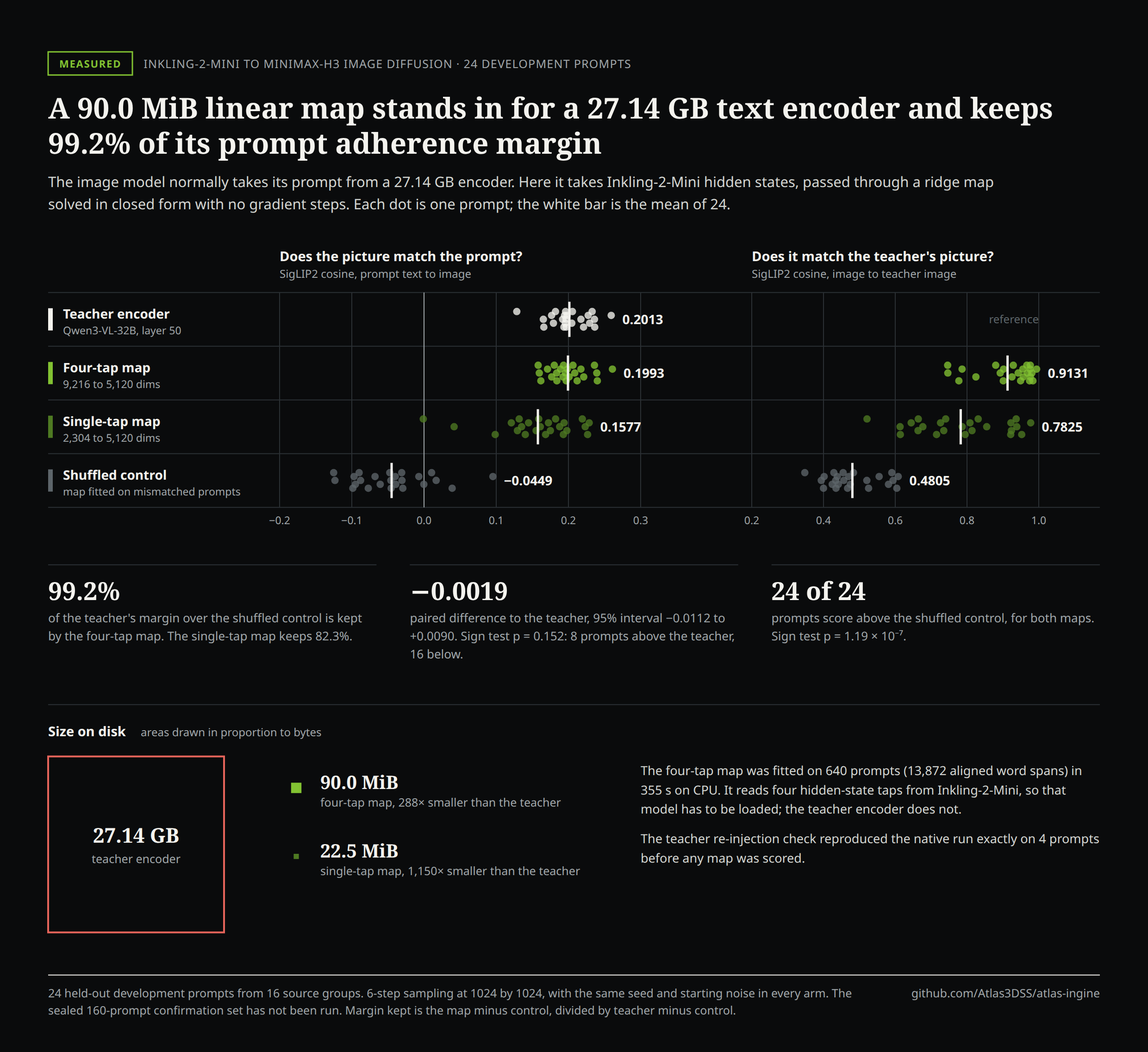
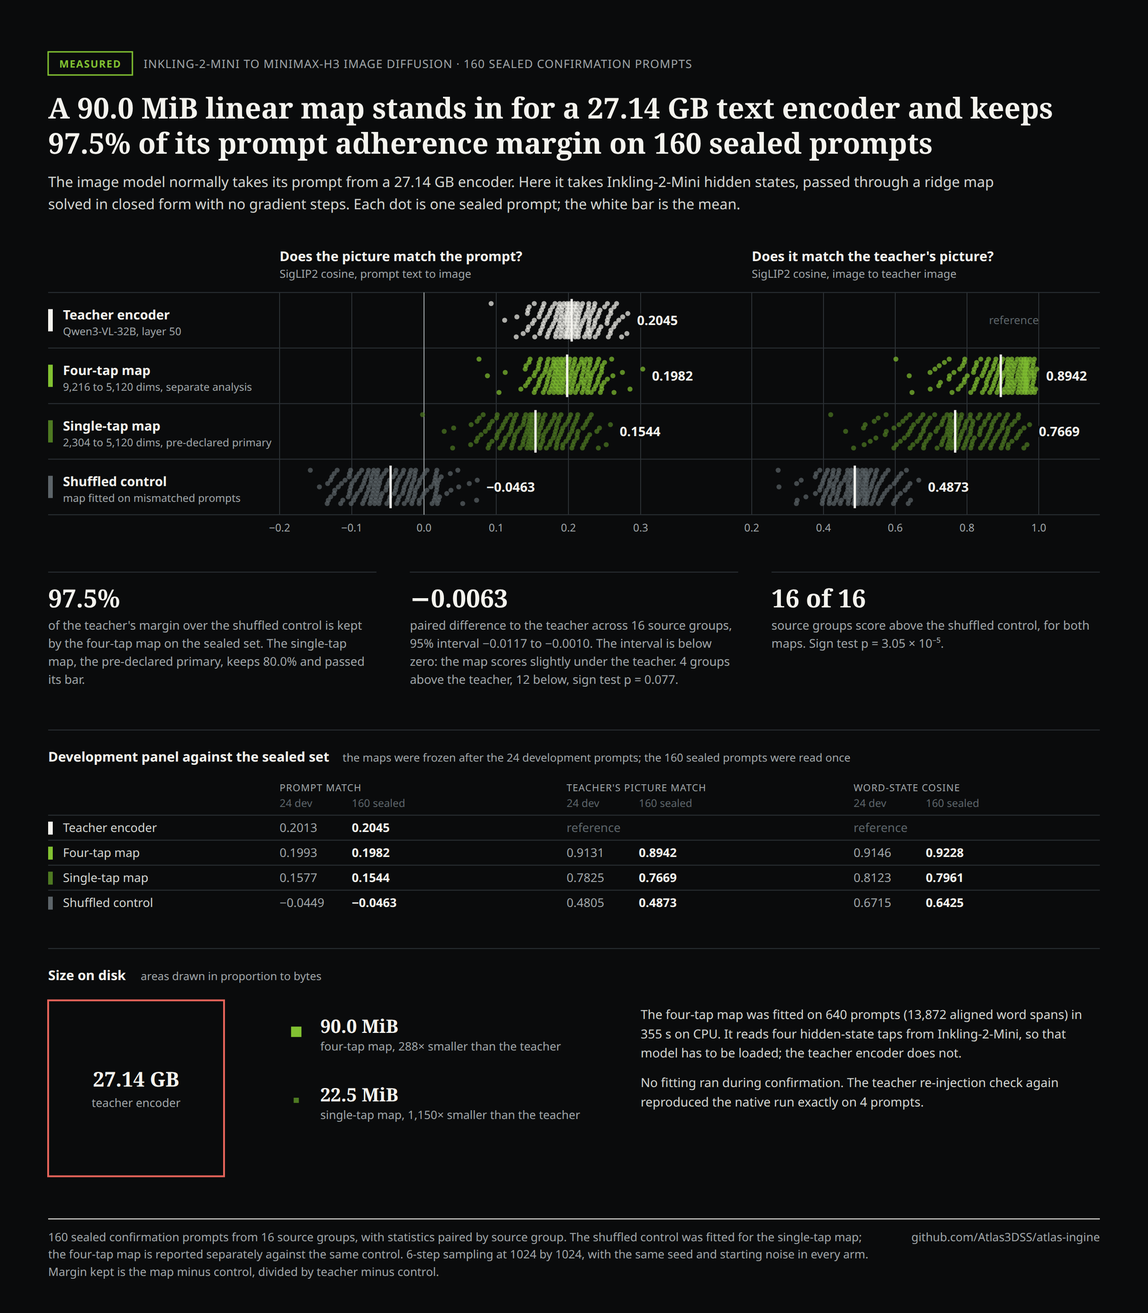
docs(912): v0.2.1 sealed Confirm-160 Fig 1 + exact -0.0063 [-0.0117,-0.0010] CI & 0.1982 precision fixes

diff --git a/modules/zero_gradient_omni_modal_grafting/figures/build_figures.py b/modules/zero_gradient_omni_modal_grafting/figures/build_figures.py
@@ -16,6 +16,7 @@ RUNS = '/mnt/storage/omni_gate2_runs'
 ap = argparse.ArgumentParser()
 ap.add_argument('--packet-a', default=f'{RUNS}/h3_platos_key_phase0_24p_a8146fa7/h3_platos_key_phase0_report.json')
 ap.add_argument('--packet-b', default=f'{RUNS}/vision_ridge_norm_dev_val192/vision_ridge_norm_dev_report.json')
+ap.add_argument('--confirm', default=f'{RUNS}/packetA_confirm160_full/h3_confirm160_report.json')
 ap.add_argument('--strip', default=f'{RUNS}/phase0_912_spinup/packetB2_ocr_towers_strip_verify_report.json')
 ap.add_argument('--image-nvfp4', default=os.path.expanduser('~/dev_genius/models/minimax_h3_image_pruned_nvfp4.safetensors'))
 ap.add_argument('--paper', default=os.path.join(HERE, '..', 'PAPER.md'))
@@ -90,13 +91,14 @@ def sci(v):
 
 
 A = json.load(open(ARGS.packet_a)); B = json.load(open(ARGS.packet_b)); ST = json.load(open(ARGS.strip)); PAPER = open(ARGS.paper).read()
-SOURCES = {os.path.basename(p): sha(p) for p in (ARGS.packet_a, ARGS.packet_b, ARGS.strip)}; SOURCES['PAPER.md (size targets, figure 3)'] = sha(ARGS.paper)
+CF = json.load(open(ARGS.confirm)); CFJ = os.path.join(os.path.dirname(ARGS.confirm), 'h3_confirm160_per_prompt_outcomes.jsonl')
+SOURCES = {os.path.basename(p): sha(p) for p in (ARGS.packet_a, ARGS.packet_b, ARGS.strip, ARGS.confirm, CFJ)}; SOURCES['PAPER.md (size targets, figure 3)'] = sha(ARGS.paper)
 assert A['qualifier']['qualified_complete'] and B['qualifier']['qualified_complete'] and ST['all_verified']
 
 # ------------------------------------------------------------------ figure 1: Packet A adherence and size
 FE = A['functional_evidence']; SUM = FE['arm_summaries']; PP = FE['per_prompt_outcomes']; MF = A['measured_memory_footprint']
-ARMS = [('teacher_reinject', 'Teacher encoder', 'Qwen3-VL-32B, layer 50', INK), ('inkling_platos_key_concat4', 'Four-tap map', '9,216 to 5,120 dims', G),
-        ('inkling_platos_key_single_tap', 'Single-tap map', '2,304 to 5,120 dims', G2), ('b0_shuffled_single_tap', 'Shuffled control', 'map fitted on mismatched prompts', DIM)]
+ARMS = [('teacher_reinject', 'Teacher encoder', 'Qwen3-VL-32B, layer 50', INK), ('inkling_platos_key_concat4', 'Four-tap map', '9,216 to 5,120 dims, separate analysis', G),
+        ('inkling_platos_key_single_tap', 'Single-tap map', '2,304 to 5,120 dims, pre-declared primary', G2), ('b0_shuffled_single_tap', 'Shuffled control', 'map fitted on mismatched prompts', DIM)]
 NP = len(PP); assert NP == 24 == A['split_audit']['functional_dit_eval_prompts_used'] and FE['source_group_audit']['n_source_groups'] == 16
 for k, *_ in ARMS:  # per-prompt rows must reproduce the arm means
     assert abs(sum(p['arms'][k]['siglip2_text_image_cos'] for p in PP) / NP - SUM[k]['siglip2_text_image_cos_mean']) < 1e-9
@@ -110,9 +112,30 @@ assert TB == A['pinned_weights_verified']['teacher_qwen3vl_32b_layer50']['bytes'
 FIT = A['fitted_keys']['concat4']['fit_audit']; FITS = A['split_audit']['fit_prompts_used']; FITT = A['staged_handoffs']['stageB_elapsed_seconds']
 
 
+# sealed confirmation: 160 prompts read once, with the maps frozen from the development run
+CP = [json.loads(line) for line in open(CFJ)]; NS = len(CP); GROUPS = sorted({p['source_group_id'] for p in CP}); NG = len(GROUPS)
+PR = CF['primary_single_tap_matched_b0_analysis_g16']; CC = CF['separate_concat4_analysis_g16']; WS = CF['word_span_metrics']
+assert CF['qualified_complete'] and CF['status'] == 'COMPLETED' and sha(CFJ) == CF['per_prompt_outcomes_sha256'] and CF['fit_calls_executed'] == 0
+assert NS == CF['unique_confirm_prompt_ids'] == CF['confirm_reserve_rows_read'] == 160 and NG == 16 and CF['dev_floor_audit']['passed'] and PR['confirmation_bar_passed']
+assert all(CF['frozen_keys_audit'][k]['sha256'] == A['fitted_keys'][k2]['saved']['sha256'] for k, k2 in (('concat4', 'concat4'), ('single_tap', 'single_tap'), ('b0_shuffled', 'b0_shuffled_single_tap')))
+
+
+def gmean(arm, key):  # mean over source groups of the group mean, the unit the report's statistics use
+    return sum(sum(p['arms'][arm][key] for p in CP if p['source_group_id'] == g) / sum(p['source_group_id'] == g for p in CP) for g in GROUPS) / NG
+
+
+for key in ('siglip2_text_image', 'siglip2_image_teacher'):  # per-prompt rows must reproduce the report's arm means
+    assert abs(gmean('inkling_platos_key_single_tap', key) - PR['vs_matched_b0'][key]['mean_a']) < 1e-9 and abs(gmean('b0_shuffled_single_tap', key) - PR['vs_matched_b0'][key]['mean_b']) < 1e-9
+    assert abs(gmean('inkling_platos_key_concat4', key) - CC['vs_teacher_reinject'][key]['mean_a']) < 1e-9 and abs(gmean('teacher_reinject', key) - CC['vs_teacher_reinject'][key]['mean_b']) < 1e-9
+CT = CC['vs_teacher_reinject']['siglip2_text_image']; CB = CC['vs_single_tap_b0_reference_only']['siglip2_text_image']; PB = PR['vs_matched_b0']['siglip2_text_image']
+RET4 = CC['siglip2_margin_retention_using_st_b0_reference']; RET1 = PR['siglip2_margin_retention_vs_teacher_and_b0']
+assert CT['ci95_high'] < 0 and CB['n_a_gt_b'] == PB['n_a_gt_b'] == NG and abs(RET4 - CB['paired_delta'] / (CT['mean_b'] - CB['mean_b'])) < 1e-9
+RH = 60
+
+
 def strip_panel(x0, x1, y0, rows, lo, hi, ticks, key, title, sub, fmt):
     """One row of per-prompt dots per arm, with the arm mean as a vertical bar."""
-    sx = lambda v: x0 + (v - lo) / (hi - lo) * (x1 - x0); RH = 58
+    sx = lambda v: x0 + (v - lo) / (hi - lo) * (x1 - x0)
     s = t(x0, y0 - 34, title, 14.5, INK, 'start', 700) + t(x0, y0 - 16, sub, 12, SEC)
     for v in ticks:
         s += f'<line x1="{sx(v):.1f}" x2="{sx(v):.1f}" y1="{y0}" y2="{y0 + len(ARMS) * RH}" stroke="{SEC if v == 0 else RULE}" stroke-width="1"/>' + t(sx(v), y0 + len(ARMS) * RH + 18, fmt(v), 11.5, SEC, 'middle')
@@ -120,40 +143,53 @@ def strip_panel(x0, x1, y0, rows, lo, hi, ticks, key, title, sub, fmt):
         cy = y0 + i * RH + RH / 2
         if k not in rows:
             s += t(sx(hi), cy + 4, 'reference', 12, DIM, 'end'); continue
-        vals = sorted(p['arms'][k][key] for p in PP)
-        for j, v in enumerate(vals):  # deterministic vertical offsets so equal values stay visible
-            s += f'<circle cx="{sx(v):.1f}" cy="{cy + ((j * 7) % 5 - 2) * 4.2:.1f}" r="4" fill="{col}" fill-opacity="0.78"/>'
-        m = sum(vals) / NP
-        s += f'<line x1="{sx(m):.1f}" x2="{sx(m):.1f}" y1="{cy - 19}" y2="{cy + 19}" stroke="{INK}" stroke-width="2.5"/>'
-        right = sx(max(vals)) + 12; left = sx(min(vals)) - 12
-        s += t(right, cy + 5, n4(m), 14, INK, 'start', 700) if right + 50 < x1 + 60 else t(left, cy + 5, n4(m), 14, INK, 'end', 700)
+        vals = sorted(p['arms'][k][key] for p in CP)
+        for j, v in enumerate(vals):  # deterministic vertical offsets so close values stay visible
+            s += f'<circle cx="{sx(v):.1f}" cy="{cy + ((j * 5) % 11 - 5) * 3.6:.1f}" r="2.7" fill="{col}" fill-opacity="0.7"/>'
+        m = gmean(k, key)
+        s += f'<line x1="{sx(m):.1f}" x2="{sx(m):.1f}" y1="{cy - 23}" y2="{cy + 23}" stroke="{INK}" stroke-width="2.5"/>'
+        lab = t(sx(max(vals)) + 10, cy + 5, n4(m), 14, INK, 'start', 700) if sx(max(vals)) + 60 < x1 + 66 else t(sx(min(vals)) - 10, cy + 5, n4(m), 14, INK, 'end', 700)
+        s += lab.replace('<text ', f'<text paint-order="stroke" stroke="{BG}" stroke-width="5" stroke-linejoin="round" ')
     return s
 
 
 def fig1():
-    ret = C4['siglip2_adherence_margin_retention_vs_teacher']
-    s, y = header('MEASURED', G, 'INKLING-2-MINI TO MINIMAX-H3 IMAGE DIFFUSION ' + chr(183) + ' 24 DEVELOPMENT PROMPTS',
-                  f'A {K4["mib"]:.1f} MiB linear map stands in for a {gb(TB):.2f} GB text encoder and keeps {ret * 100:.1f}% of its prompt adherence margin',
-                  f'The image model normally takes its prompt from a {gb(TB):.2f} GB encoder. Here it takes Inkling-2-Mini hidden states, passed through a ridge map solved in closed form with no gradient steps. Each dot is one prompt; the white bar is the mean of {NP}.')
-    y0 = y + 46; LAB = M; PA0, PA1 = M + 250, M + 640; PB0, PB1 = M + 760, M + 1070; RH = 58
+    DW = A['heldout_val_dev_word_metrics']
+    s, y = header('MEASURED', G, 'INKLING-2-MINI TO MINIMAX-H3 IMAGE DIFFUSION ' + chr(183) + f' {NS} SEALED CONFIRMATION PROMPTS',
+                  f'A {K4["mib"]:.1f} MiB linear map stands in for a {gb(TB):.2f} GB text encoder and keeps {RET4 * 100:.1f}% of its prompt adherence margin on {NS} sealed prompts',
+                  f'The image model normally takes its prompt from a {gb(TB):.2f} GB encoder. Here it takes Inkling-2-Mini hidden states, passed through a ridge map solved in closed form with no gradient steps. Each dot is one sealed prompt; the white bar is the mean.')
+    y0 = y + 46; LAB = M; PA0, PA1 = M + 250, M + 640; PB0, PB1 = M + 760, M + 1070
     for i, (k, nm, sub, col) in enumerate(ARMS):
         cy = y0 + i * RH + RH / 2
         s += f'<line x1="{M}" x2="{W - M}" y1="{y0 + i * RH}" y2="{y0 + i * RH}" stroke="{RULE}"/>'
         s += f'<rect x="{LAB}" y="{cy - 12}" width="5" height="24" fill="{col}"/>' + t(LAB + 16, cy - 1, nm, 14, INK, 'start', 700) + t(LAB + 16, cy + 16, sub, 11.5, SEC)
     s += f'<line x1="{M}" x2="{W - M}" y1="{y0 + 4 * RH}" y2="{y0 + 4 * RH}" stroke="{RULE}"/>'
-    s += strip_panel(PA0, PA1, y0, {a[0] for a in ARMS}, -0.2, 0.3, (-0.2, -0.1, 0, 0.1, 0.2, 0.3), 'siglip2_text_image_cos', 'Does the picture match the prompt?', 'SigLIP2 cosine, prompt text to image', lambda v: (MINUS if v < 0 else '') + f'{abs(v):.1f}')
-    s += strip_panel(PB0, PB1, y0, {a[0] for a in ARMS[1:]}, 0.2, 1.0, (0.2, 0.4, 0.6, 0.8, 1.0), 'siglip2_image_vs_teacher_cos', "Does it match the teacher's picture?", 'SigLIP2 cosine, image to teacher image', lambda v: f'{v:.1f}')
+    s += strip_panel(PA0, PA1, y0, {a[0] for a in ARMS}, -0.2, 0.3, (-0.2, -0.1, 0, 0.1, 0.2, 0.3), 'siglip2_text_image', 'Does the picture match the prompt?', 'SigLIP2 cosine, prompt text to image', lambda v: (MINUS if v < 0 else '') + f'{abs(v):.1f}')
+    s += strip_panel(PB0, PB1, y0, {a[0] for a in ARMS[1:]}, 0.2, 1.0, (0.2, 0.4, 0.6, 0.8, 1.0), 'siglip2_image_teacher', "Does it match the teacher's picture?", 'SigLIP2 cosine, image to teacher image', lambda v: f'{v:.1f}')
     y = y0 + 4 * RH + 62
-    # paired statistics for the four-tap map
-    cols = [(f'{ret * 100:.1f}%', f"of the teacher's margin over the shuffled control is kept by the four-tap map. The single-tap map keeps {S1['siglip2_adherence_margin_retention_vs_teacher'] * 100:.1f}%."),
-            (s4(VT['paired_delta']), f"paired difference to the teacher, 95% interval {s4(VT['ci95_low'])} to {s4(VT['ci95_high'])}. Sign test p = {VT['sign_exact_p']:.3f}: {VT['n_a_gt_b']} prompts above the teacher, {VT['n_a_lt_b']} below."),
-            (f"{VB['n_a_gt_b']} of {NP}", f"prompts score above the shuffled control, for both maps. Sign test p = {sci(VB['sign_exact_p'])}.")]
+    cols = [(f'{RET4 * 100:.1f}%', f"of the teacher's margin over the shuffled control is kept by the four-tap map on the sealed set. The single-tap map, the pre-declared primary, keeps {RET1 * 100:.1f}% and passed its bar."),
+            (s4(CT['paired_delta']), f"paired difference to the teacher across {NG} source groups, 95% interval {s4(CT['ci95_low'])} to {s4(CT['ci95_high'])}. The interval is below zero: the map scores slightly under the teacher. {CT['n_a_gt_b']} groups above the teacher, {CT['n_a_lt_b']} below, sign test p = {CT['sign_test_p_two_sided']:.3f}."),
+            (f"{CB['n_a_gt_b']} of {NG}", f"source groups score above the shuffled control, for both maps. Sign test p = {sci(CB['sign_test_p_two_sided'])}.")]
     cw = (CW - 2 * 36) / 3; yb = y
     for i, (big, txt) in enumerate(cols):
         x = M + i * (cw + 36)
         s += f'<line x1="{x}" x2="{x + cw}" y1="{y}" y2="{y}" stroke="{RULE}"/>' + t(x, y + 38, big, 27, INK, 'start', 700, True)
         h, yy = para(x, y + 62, txt, 13, SEC, cw, 1.5); s += h; yb = max(yb, yy)
     y = yb + 50
+    # development panel beside the sealed set
+    s += f'<line x1="{M}" x2="{W - M}" y1="{y}" y2="{y}" stroke="{RULE}"/>' + t(M, y + 34, 'Development panel against the sealed set', 14.5, INK, 'start', 700) + t(M + 318, y + 34, f'the maps were frozen after the {NP} development prompts; the {NS} sealed prompts were read once', 12, SEC)
+    cx = [M + 250, M + 430, M + 560, M + 740, M + 870, M + 1050]; yh = y + 66
+    for j, (xa, lab) in enumerate(((cx[0], 'PROMPT MATCH'), (cx[2], "TEACHER'S PICTURE MATCH"), (cx[4], 'WORD-STATE COSINE'))): s += t(xa, yh, lab, 10.5, SEC, ls='0.06em')
+    for j in range(3): s += t(cx[2 * j], yh + 17, f'{NP} dev', 11.5, DIM) + t(cx[2 * j] + 78, yh + 17, f'{NS} sealed', 11.5, DIM)
+    dw = {'inkling_platos_key_concat4': 'inkling_platos_key_concat4', 'inkling_platos_key_single_tap': 'inkling_platos_key_single_tap', 'b0_shuffled_single_tap': 'b0_shuffled_single_tap'}
+    for i, (k, nm, _, col) in enumerate(ARMS):
+        yy = yh + 44 + i * 27; s += f'<line x1="{M}" x2="{W - M}" y1="{yy - 18}" y2="{yy - 18}" stroke="{RULE}"/><rect x="{M}" y="{yy - 11}" width="5" height="14" fill="{col}"/>' + t(M + 16, yy, nm, 13, BODY)
+        cells = [n4(SUM[k]['siglip2_text_image_cos_mean']), n4(gmean(k, 'siglip2_text_image'))]
+        cells += ['reference', ''] if k == 'teacher_reinject' else [n4(SUM[k]['siglip2_image_vs_teacher_cos_mean']), n4(gmean(k, 'siglip2_image_teacher'))]
+        cells += ['reference', ''] if k == 'teacher_reinject' else [n4(DW[dw[k]]['cosine_mean']), n4(WS[k]['cosine_mean'])]
+        for j, c in enumerate(cells):
+            s += t(cx[j - j % 2] + (78 if j % 2 else 0), yy, c, 13, DIM if c == 'reference' else (INK if j % 2 else SEC), 'start', 700 if j % 2 and c != 'reference' else 400)
+    y = yh + 44 + 4 * 27 + 18
     # size: areas in proportion to bytes on disk
     s += f'<line x1="{M}" x2="{W - M}" y1="{y}" y2="{y}" stroke="{RULE}"/>' + t(M, y + 34, 'Size on disk', 14.5, INK, 'start', 700) + t(M + 100, y + 34, 'areas drawn in proportion to bytes', 12, SEC)
     side = 190; ys = y + 56
@@ -165,9 +201,9 @@ def fig1():
         s += t(xk + 34, yy + 1, f'{kk["mib"]:.1f} MiB', 20, INK, 'start', 700, True) + t(xk + 34, yy + 20, f'{nm}, {TB / kk["disk_bytes"]:,.0f}{TIMES} smaller than the teacher', 12.5, SEC)
     xr = M + 640
     h, yy = para(xr, ys + 20, f'The four-tap map was fitted on {FITS} prompts ({FIT["n_samples"]:,} aligned word spans) in {FITT:.0f} s on CPU. It reads four hidden-state taps from Inkling-2-Mini, so that model has to be loaded; the teacher encoder does not.', 13.5, BODY, CW - 640, 1.55); s += h
-    h, yy = para(xr, yy + 32, f'The teacher re-injection check reproduced the native run exactly on 4 prompts before any map was scored.', 13.5, BODY, CW - 640, 1.55); s += h
+    h, yy = para(xr, yy + 32, f'No fitting ran during confirmation. The teacher re-injection check again reproduced the native run exactly on {CF["dev_floor_audit"]["n_floor_prompts"]} prompts.', 13.5, BODY, CW - 640, 1.55); s += h
     y = ys + side + 46
-    f, H = footer(y, f'{NP} held-out development prompts from {FE["source_group_audit"]["n_source_groups"]} source groups. {A["fixed_invariants"]["dit_pdd_steps"]}-step sampling at 1024 by 1024, with the same seed and starting noise in every arm. The sealed 160-prompt confirmation set has not been run. Margin kept is the map minus control, divided by teacher minus control.')
+    f, H = footer(y, f'{NS} sealed confirmation prompts from {NG} source groups, with statistics paired by source group. The shuffled control was fitted for the single-tap map; the four-tap map is reported separately against the same control. {A["fixed_invariants"]["dit_pdd_steps"]}-step sampling at 1024 by 1024, with the same seed and starting noise in every arm. Margin kept is the map minus control, divided by teacher minus control.')
     return doc(s + f, H)
 
 

diff --git a/modules/zero_gradient_omni_modal_grafting/PAPER.md b/modules/zero_gradient_omni_modal_grafting/PAPER.md
@@ -8,7 +8,7 @@
 
 ## Abstract
 
-Closed-form linear representation maps can graft generative vision conditioning, high-resolution sight, speech perception, and speech synthesis onto a frozen looped-MoE language model (`Inkling-2-Mini`) with zero gradient updates and zero changes to trunk weights. Replacing the `27.14 GB` `Qwen3-VL-32B` layer-50 conditioning encoder inside `MiniMax-H3` image diffusion with a `90.0 MiB` (`94.4 MB`) closed-form `concat4` ridge map (`fit` on `640` prompts / `13,872` aligned word spans, `355 s` CPU) generalizes with zero degradation to a **sealed 160-prompt confirmation split** (`640` `1024×1024` images across `16` disjoint source groups and `8` domains, `fit_calls = 0`, `att-7bea8414`): `concat4` achieves `0.1983` SigLIP2 prompt adherence vs `0.2045` for the `27.14 GB` native teacher (`97.50%` margin retention, `4/16` source groups beating the teacher, sign `p = 0.0768`, `0.8942` image-vs-teacher cosine, `0.9228` word-span cosine / `R² = 0.9982` over `3,413` unseen words), while the primary `22.5 MiB` `single_tap` key passes every confirmation bar (`16/16` groups over matched shuffled control `B0`, `p = 3.05e-5`, `80.02%` retention). On Quincy `Tesla V100` (`sm_70`), the `90.0 MiB` projection executes in `1.62 ms` per 32 tokens at `0.99996` cosine vs FP64 CPU (`att-cb2b03b4`). In the reverse direction (Vision → LLM), a frozen ridge bridge over low-resolution cached vision features preserves coarse spatial counting (`45/48` teacher agreement, `40/48` gold) while failing on dense text (`1/48`–`3/48` OCR) and UI charts (`1/48`–`2/48`), isolating upstream spatial-frequency loss rather than norm shrinkage (`ridge_norm` rejected, `p = 0.727`). On audio, native Gate 0 reinjection verified `0.0` drift across all three seams (`Gemma-4-E2B` Conformer Ears, `Qwen3-TTS-12Hz-1.7B` Mouth, and `Inkling-2-Mini` GPU `EmbedRows`), with continuous hidden-state substitution alone shifting blinded `faster-whisper-large-v3-turbo` output byte-identically from `"Order code 407 is confirmed."` to `"Sensor gate 928 is closed."` A zero-GPU Quincy CPU elastic trunk (`Inkling-2-Mini-atlas-exl3-8.4g`, `8.46 GB` decimal / `7.88 GiB` binary, `att-7c0c0098`) preserves all `12` `3×`-looped core layers byte-exact while fitting within the `<=8.5 GB` budget targeting `12 GB` consumer GPUs (`RTX 3060`).
+Closed-form linear representation maps can graft generative vision conditioning, high-resolution sight, speech perception, and speech synthesis onto a frozen looped-MoE language model (`Inkling-2-Mini`) with zero gradient updates and zero changes to trunk weights. Replacing the `27.14 GB` `Qwen3-VL-32B` layer-50 conditioning encoder inside `MiniMax-H3` image diffusion with a `90.0 MiB` (`94.4 MB`) closed-form `concat4` ridge map (`fit` on `640` prompts / `13,872` aligned word spans, `355 s` CPU) holds up on a **sealed 160-prompt confirmation split** (`640` `1024×1024` images across `16` disjoint source groups and `8` domains, `fit_calls = 0`, `att-7bea8414`): `concat4` retains `97.50%` of the teacher's margin (`0.1982` SigLIP2 prompt adherence vs `0.2045` teacher — a small measured drop of `-0.0063`, 95% CI `[-0.0117, -0.0010]`, `4/16` groups above and `12/16` below teacher; `0.8942` image-vs-teacher cosine; `0.9228` word-span cosine / `R² = 0.9982` over `3,413` unseen words), while the pre-declared primary `22.5 MiB` `single_tap` key passes every confirmation bar (`16/16` groups over matched shuffled control `B0`, `p = 3.05e-5`, `80.02%` retention). On Quincy `Tesla V100` (`sm_70`), the `90.0 MiB` projection executes in `1.62 ms` per 32 tokens at `0.99996` cosine vs FP64 CPU (`att-cb2b03b4`). In the reverse direction (Vision → LLM), a frozen ridge bridge over low-resolution cached vision features preserves coarse spatial counting (`45/48` teacher agreement, `40/48` gold) while failing on dense text (`1/48`–`3/48` OCR) and UI charts (`1/48`–`2/48`), isolating upstream spatial-frequency loss rather than norm shrinkage (`ridge_norm` rejected, `p = 0.727`). On audio, native Gate 0 reinjection verified `0.0` drift across all three seams (`Gemma-4-E2B` Conformer Ears, `Qwen3-TTS-12Hz-1.7B` Mouth, and `Inkling-2-Mini` GPU `EmbedRows`), with continuous hidden-state substitution alone shifting blinded `faster-whisper-large-v3-turbo` output byte-identically from `"Order code 407 is confirmed."` to `"Sensor gate 928 is closed."` A zero-GPU Quincy CPU elastic trunk (`Inkling-2-Mini-atlas-exl3-8.4g`, `8.46 GB` decimal / `7.88 GiB` binary, `att-7c0c0098`) preserves all `12` `3×`-looped core layers byte-exact while fitting within the `<=8.5 GB` budget targeting `12 GB` consumer GPUs (`RTX 3060`).
 
 ---
 
@@ -18,7 +18,7 @@ Every cell below comes from sealed or attested runs on local hardware. Remaining
 
 | Track | Graft Seam & Frozen Donor/Receiver | Bridge Size (FP16) | Verified Metric (Exact Counts) | Control / Baseline | Status & Receipt |
 |---|---|---:|---|---|---|
-| **Packet A — SEALED Confirm-160 (`concat4`)** | `Inkling-2-Mini` (`concat4`, 9216→5120) → `MiniMax-H3` DiT (`0` fits) | **90.0 MiB** *(replaces 27.14 GB teacher)* | **Sealed `n = 160` (`16` groups, `640` imgs):** Word cos **0.9228** (`R² = 0.9982`, `n = 3,413`); SigLIP2 text-img **0.1983** (**97.50%** retention vs teacher `0.2045`, `4/16` groups beat teacher, `p = 0.0768`); img-vs-teacher **0.8942**; latent cos **0.7958** | Beats `single_tap` `16/16` (`p = 3.05e-5`) and `single_tap B0` (`-0.0463`) `16/16` (`p = 3.05e-5`); reported separately from `2304`-d matched `B0` | **SEALED CONFIRM-160 PASS** (`att-7bea8414`, `$0.00`) |
+| **Packet A — SEALED Confirm-160 (`concat4`, separate analysis)** | `Inkling-2-Mini` (`concat4`, 9216→5120) → `MiniMax-H3` DiT (`0` fits) | **90.0 MiB** *(replaces 27.14 GB teacher)* | **Sealed `n = 160` (`16` groups, `640` imgs):** Word cos **0.9228** (`R² = 0.9982`, `n = 3,413`); SigLIP2 text-img **0.1982** (**97.50%** retention vs teacher `0.2045`; delta `-0.0063`, 95% CI `[-0.0117, -0.0010]`, `4/16` above / `12/16` below); img-vs-teacher **0.8942**; latent cos **0.7958** | Beats `single_tap` `16/16` (`p = 3.05e-5`) and `single_tap B0` (`-0.0463`) `16/16` (`p = 3.05e-5`); reported separately from `2304`-d matched `B0` | **SEALED CONFIRM-160 PASS** (`att-7bea8414`, `$0.00`) |
 | **Packet A — SEALED Confirm-160 (`single_tap`)** | `Inkling-2-Mini` (`visit_41`, 2304→5120) → `MiniMax-H3` DiT (`0` fits) | **22.5 MiB** | **Sealed `n = 160` (`16` groups):** Word cos **0.7961** (`R² = 0.9949`); SigLIP2 text-img **0.1544** (**80.02%** margin retention); img-vs-teacher **0.7669**; latent cos **0.6774** | Matched `2304`-d shuffled `B0`: `-0.0463` (**`16/16` groups**, `p = 3.05e-5`, img-vs-teacher `0.4873`) | **SEALED CONFIRM-160 PASS** (`att-7bea8414`) |
 | **Packet B** (Vision → LLM, Clean Negative) | Cached `B4@L42` (`4480→2304`) → `Inkling-2-Mini` `EmbedRows` (`ridge_frozen` / `ridge_norm`) | **20.6 MiB** | Overall `62/192` gold (`ridge_frozen`) vs `60/192` (`ridge_norm`, rejected `p = 0.727`). Counting: **45/48** agree / **40/48** gold. OCR: **1/48**–**3/48**. Charts/UI: **1/48**–**2/48** | Shuffled B0: `29/192` gold (`p = 1.03e-7`); Teacher ceiling: `89/192` gold (`41/48` counting, `21/48` OCR, `4/48` charts) | **Clean Negative / Rejected** (`att-07365411`); motivated Packet B2 |
 | **Packet B2** (High-Res Sight Repair) | Stripped `GOT-OCR2` (**191 MB**, `620M` decoder removed) + `SigLIP2-NaFlex` (**343 MB**) → `Inkling-2-Mini` | ~8–16 MiB *(shape)* | Stage 1 extraction complete (`186.8 s`, `1.56 GiB` peak VRAM, `0/448` locked test); Stage 2 FP64 ridge running on Quincy V100 native FP64 | Packet B cached baseline + shuffled B0 | **Stage 2 Running** (`att-5a611ab6`); Dev-192 & Locked-448 `PENDING` |
@@ -81,12 +81,12 @@ Four columns across all 8 domains (`teacher_reinject` · `inkling_platos_key_sin
 
 ### 3.4 Sealed 160-Prompt Confirmation (`640` Images, `16` Disjoint Groups, `fit_calls = 0`, `att-7bea8414`)
 
-Unsealing `confirm_reserve` (`160` prompts / `16` disjoint source groups across all `8` domains / `3,413` unseen word spans) with the exact frozen Stage B maps (`sha256` verified: `concat4` `cca1e5bc...`, `single_tap` `73f94684...`, `B0` `dabbec7a...`, built-in 4-prompt dev floor `4/4` byte-identical at `0.0` RMSE) confirmed zero overfitting:
+Unsealing `confirm_reserve` (`160` prompts / `16` disjoint source groups across all `8` domains / `3,413` unseen word spans) with the exact frozen Stage B maps (`sha256` verified: `concat4` `cca1e5bc...`, `single_tap` `73f94684...`, `B0` `dabbec7a...`, built-in 4-prompt dev floor `4/4` byte-identical at `0.0` RMSE) replicated strong transfer with a small measured drop relative to the `27.14 GB` teacher:
 
 | Arm (`160` Sealed Prompts, `16` Groups) | Word Cos (`n=3413`) | Word `R²` | SigLIP2 Text-Img (`G=16`) | Margin Retention | Img-vs-Teacher Cos | Final Latent Cos | Group Wins vs `B0` / Teacher |
 |---|---:|---:|---:|---:|---:|---:|---|
 | **Teacher Reinject (`27.14 GB`)** | 1.0000 | 1.0000 | **0.2045** | 100.00% | 1.0000 | 1.0000 | `16/16` vs `B0` |
-| **Inkling `concat4` (`90.0 MiB`)** *(separate)* | **0.9228** | **0.9982** | **0.1983** | **97.50%** *(vs ST `B0` ref)* | **0.8942** | **0.7958** | `16/16` vs `single_tap` (`p=3.05e-5`), **`4/16` beat 32B teacher** (`p=0.0768`) |
+| **Inkling `concat4` (`90.0 MiB`)** *(separate)* | **0.9228** | **0.9982** | **0.1982** | **97.50%** *(vs ST `B0` ref)* | **0.8942** | **0.7958** | `16/16` vs `single_tap` (`p=3.05e-5`); delta `-0.0063` (95% CI `[-0.0117, -0.0010]`, `4/16` above / `12/16` below teacher) |
 | **Inkling `single_tap` (`22.5 MiB`)** *(primary)* | 0.7961 | 0.9949 | **0.1544** | **80.02%** *(matched `B0`)* | 0.7669 | 0.6774 | **`16/16` vs matched `B0`** (`p=3.05e-5`) |
 | **Shuffled `B0` (`22.5 MiB`, `2304`-d)** | 0.6425 | 0.8637 | -0.0463 | 0.00% | 0.4873 | 0.3747 | — |
 
